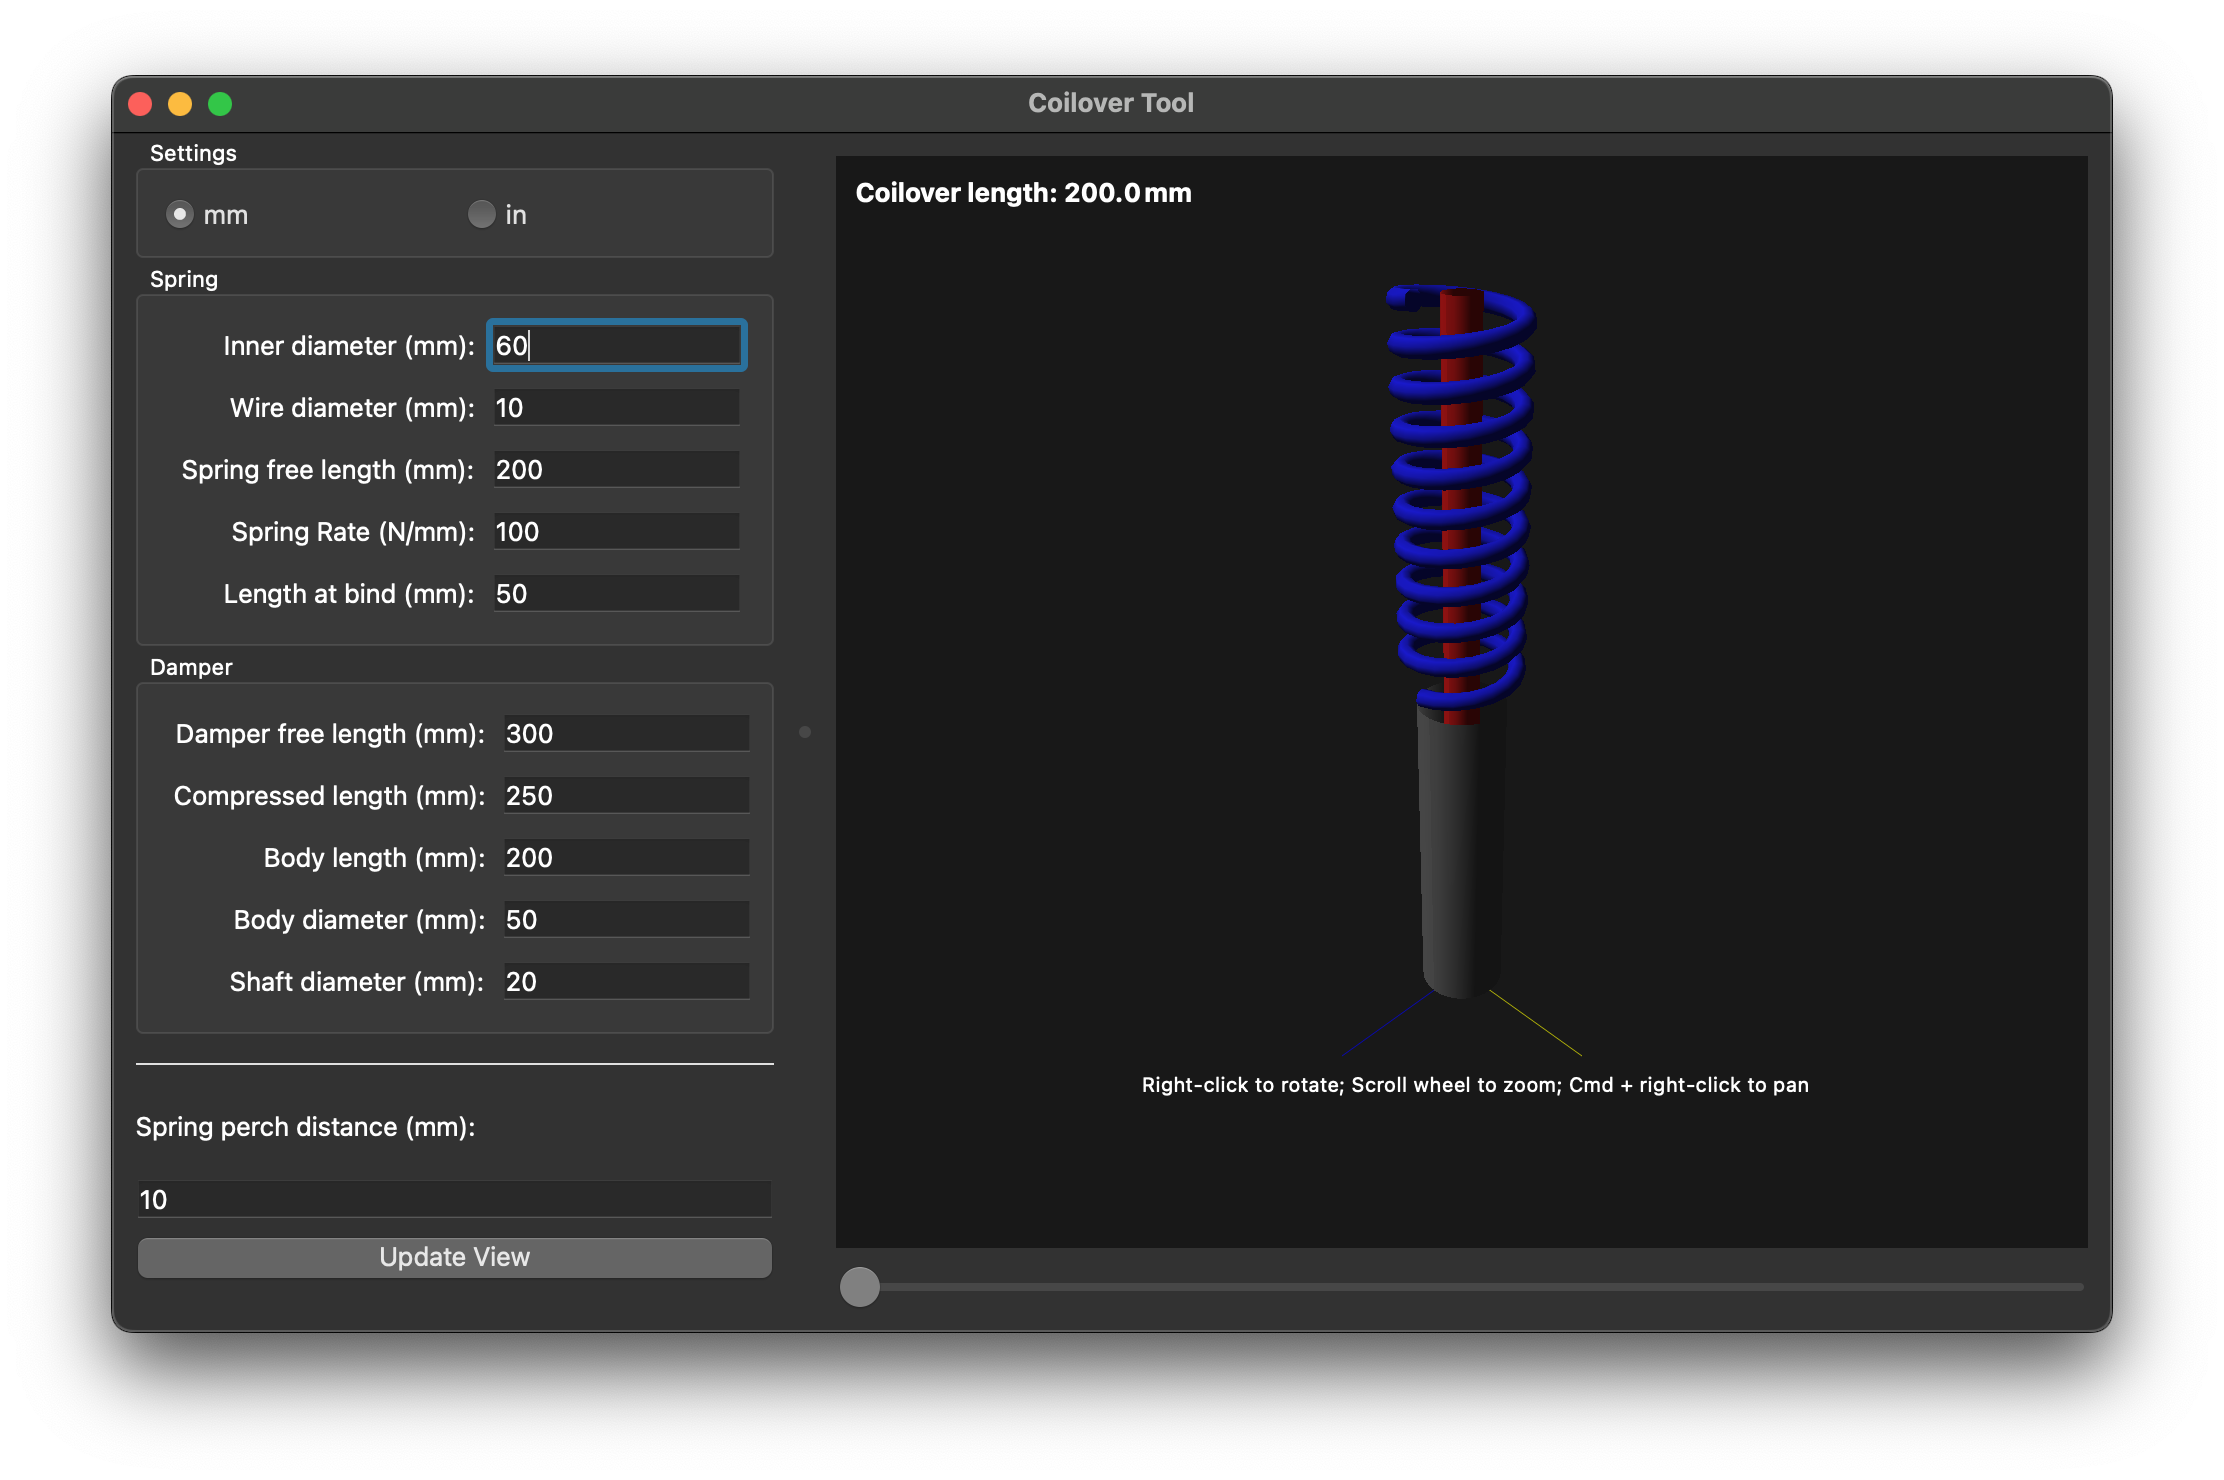
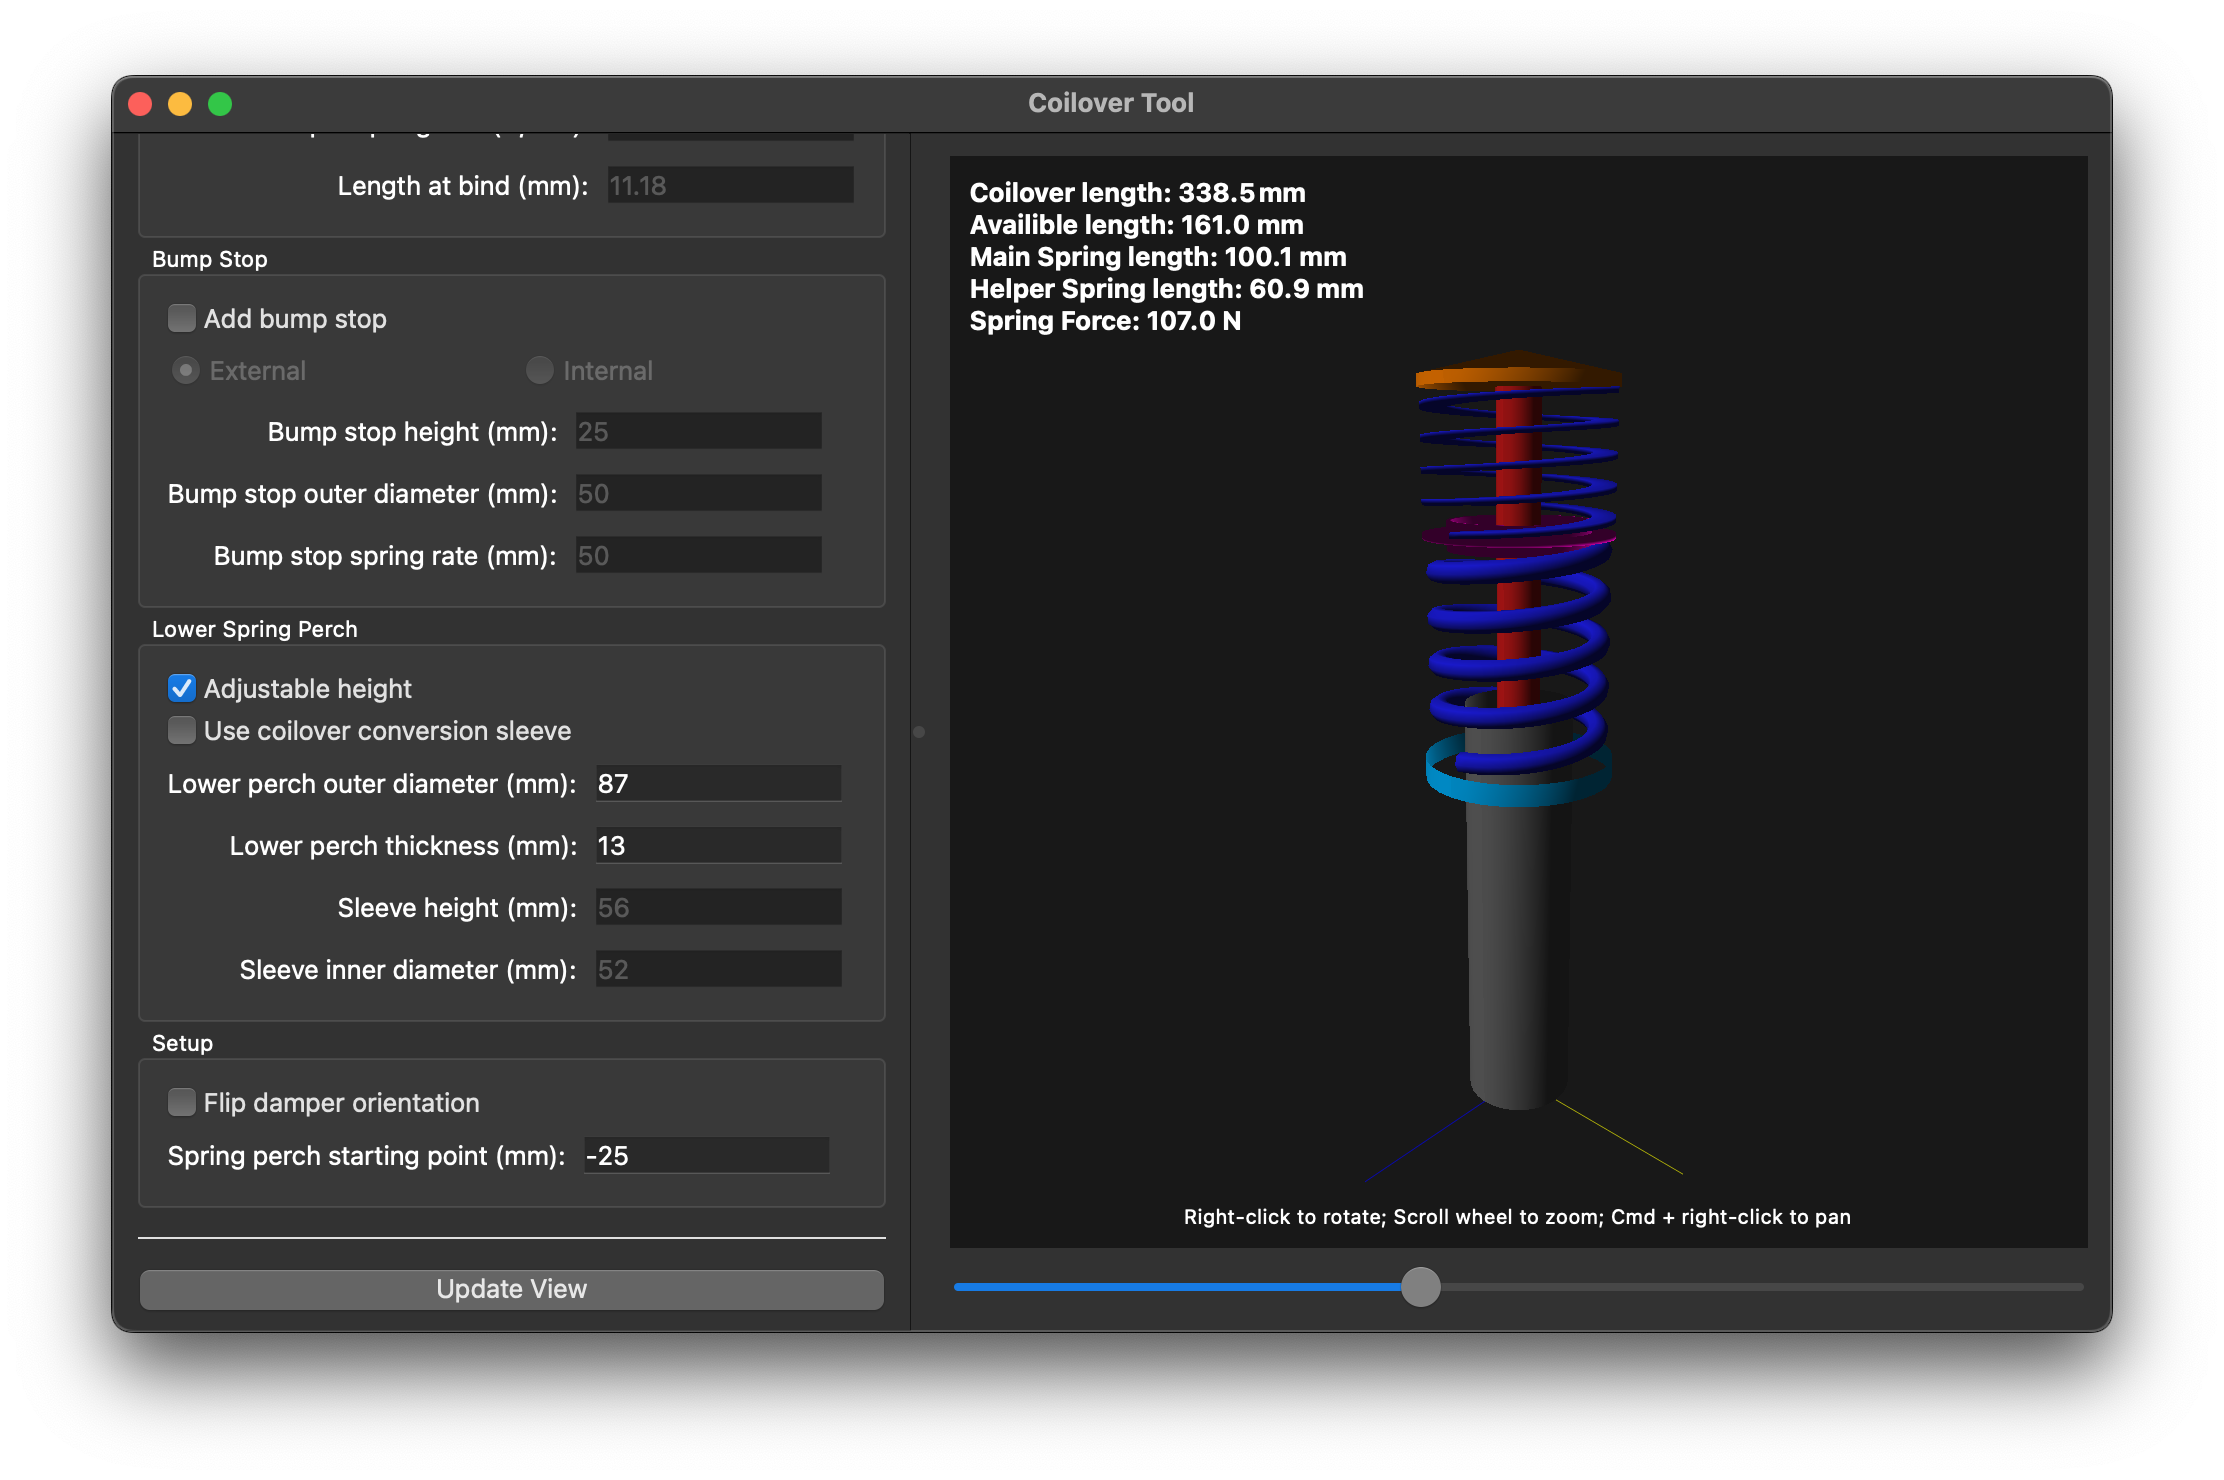
Adjustable lower perch functionality.

Changed region(s): [[0.0621, 0.0932, 0.8377, 0.9014], [0.0621, 0.0932, 0.3413, 0.6838], [0.1551, 0.1243, 0.2482, 0.1554]]

diff --git a/coilover.py b/coilover.py
@@ -50,6 +50,15 @@ class CoiloverDesigner(QtWidgets.QMainWindow):
         self.q_bump_diameter                = QtWidgets.QLineEdit("50")
         self.q_bump_rate                    = QtWidgets.QLineEdit("50")
 
+        self.q_lower_perch_outer_diameter   = QtWidgets.QLineEdit("87")
+        self.q_lower_perch_thickness        = QtWidgets.QLineEdit("13")
+        self.q_lower_perch_sleeve_height    = QtWidgets.QLineEdit("56")
+        self.q_lower_perch_sleeve_inner_diameter   = QtWidgets.QLineEdit("52")
+
+        self.q_upper_perch_outer_diameter   = QtWidgets.QLineEdit("85")
+        self.q_upper_perch_thickness        = QtWidgets.QLineEdit("10")
+        self.q_upper_perch_tapered_height   = QtWidgets.QLineEdit("10")
+
         self.q_lower_perch_position         = QtWidgets.QLineEdit("10")   # mm
         # 87 mm diameter perch
 
@@ -100,6 +109,26 @@ class CoiloverDesigner(QtWidgets.QMainWindow):
             self.q_bump_rate
             )
 
+        # Lower perch group
+        lower_perch_group, self.lower_perch_adjustable_chk, self.lower_perch_sleeve_chk = create_lower_perch_group(
+            self.on_lower_perch_adj_toggled,
+            self.lower_perch_sleeve_chk_toggled,
+            self.q_lower_perch_outer_diameter,
+            self.q_lower_perch_thickness,
+            self.q_lower_perch_sleeve_height,
+            self.q_lower_perch_sleeve_inner_diameter
+        )
+
+        self.on_lower_perch_adj_toggled(self.lower_perch_adjustable_chk.isChecked())
+        self.lower_perch_sleeve_chk_toggled(self.lower_perch_sleeve_chk.isChecked())
+
+        # Upper perch group
+        upper_perch_group = create_upper_perch_group(
+            self.q_upper_perch_outer_diameter,
+            self.q_upper_perch_thickness,
+            self.q_upper_perch_tapered_height
+        )
+
         # Setup group
         setup_group, self.flip_damper_chk = create_setup_group(self.q_lower_perch_position)
 
@@ -110,6 +139,7 @@ class CoiloverDesigner(QtWidgets.QMainWindow):
         left_layout.addWidget(damper_group)
         left_layout.addWidget(helper_group)
         left_layout.addWidget(bump_group)
+        left_layout.addWidget(lower_perch_group)
         left_layout.addWidget(setup_group)
 
         # Separator
@@ -296,6 +326,22 @@ class CoiloverDesigner(QtWidgets.QMainWindow):
         ):
             w.setEnabled(self.use_bump)
 
+    def on_lower_perch_adj_toggled(self, checked):
+        """
+        Enable lower perch position input when adjustable perch is selected.
+        """
+        self.q_lower_perch_position.setEnabled(bool(checked))
+
+    def lower_perch_sleeve_chk_toggled(self, checked):
+        """
+        Enable sleeve dimension inputs when using a conversion sleeve.
+        """
+        for w in (
+            self.q_lower_perch_sleeve_height,
+            self.q_lower_perch_sleeve_inner_diameter,
+        ):
+            w.setEnabled(bool(checked))
+
     def read_length(self, widget):
         """
         Ensures the 3D animation always reads the inputs in mm
@@ -428,7 +474,7 @@ class CoiloverDesigner(QtWidgets.QMainWindow):
         perch_clearance  = 2.0       # mm beyond spring OD
         cyl_thickness    = 5.0       # cylinder height
         cone_height      = 10.0      # cone height
-        plate_dia        = self.spring_id + perch_clearance
+        plate_dia        = 87
 
         cyl_mesh = make_cylinder(plate_dia/2.0, cyl_thickness, sectors=32)
         self.upper_perch = gl.GLMeshItem(
@@ -473,9 +519,9 @@ class CoiloverDesigner(QtWidgets.QMainWindow):
 
         # Lower spring perch
         perch_clearance  = 2.0       # mm beyond spring OD
-        cyl_thickness    = 5.0       # cylinder height
+        cyl_thickness    = 10.0       # cylinder height
         cone_height      = 10.0      # cone height
-        plate_dia        = self.spring_id + perch_clearance
+        plate_dia        = 87
 
         # remove old perch if exists
         if hasattr(self, 'lower_perch'):

diff --git a/ui_panels.py b/ui_panels.py
@@ -223,6 +223,70 @@ def create_bump_stop_group(
     bump_group.setLayout(bump_layout)
     return bump_group, bump_chk, radio_bump_ext, radio_bump_int
 
+def create_upper_perch_group(
+        q_upper_perch_outer_diameter,
+        q_upper_perch_thickness,
+        q_upper_perch_tapered_height
+        ):
+    upper_perch_group  = QtWidgets.QGroupBox("Upper Spring Perch")
+    upper_perch_layout = QtWidgets.QFormLayout()
+
+    # Upper perch dimensions
+    lbl = QtWidgets.QLabel("Upper perch outer diameter (mm):")
+    lbl.setObjectName("Upper perch outer diameter")
+    upper_perch_layout.addRow(lbl, q_upper_perch_outer_diameter)
+
+    lbl = QtWidgets.QLabel("Upper perch thickness (mm):")
+    lbl.setObjectName("Upper perch thickness")
+    upper_perch_layout.addRow(lbl, q_upper_perch_thickness)
+
+    lbl = QtWidgets.QLabel("Helper perch tapered height (mm):")
+    lbl.setObjectName("Helper perch tapered height")
+    upper_perch_layout.addRow(lbl, q_upper_perch_tapered_height)
+
+    upper_perch_group.setLayout(upper_perch_layout)
+    return upper_perch_group
+
+def create_lower_perch_group(
+        on_lower_perch_adj_toggled,
+        lower_perch_sleeve_chk_toggled,
+        q_lower_perch_outer_diameter,
+        q_lower_perch_thickness,
+        q_lower_perch_sleeve_height,
+        q_lower_perch_sleeve_inner_diameter
+        ):
+    lower_perch_group  = QtWidgets.QGroupBox("Lower Spring Perch")
+    lower_perch_layout = QtWidgets.QFormLayout()
+
+    lower_perch_adjustable_chk = QtWidgets.QCheckBox("Adjustable height")
+    lower_perch_layout.addRow(lower_perch_adjustable_chk)
+    lower_perch_adjustable_chk.toggled.connect(on_lower_perch_adj_toggled)
+
+    lower_perch_sleeve_chk = QtWidgets.QCheckBox("Use coilover conversion sleeve")
+    lower_perch_layout.addRow(lower_perch_sleeve_chk)
+    lower_perch_sleeve_chk.toggled.connect(lower_perch_sleeve_chk_toggled)
+
+    # Lower perch dimensions
+    lbl = QtWidgets.QLabel("Lower perch outer diameter (mm):")
+    lbl.setObjectName("Lower perch outer diameter")
+    lower_perch_layout.addRow(lbl, q_lower_perch_outer_diameter)
+
+    lbl = QtWidgets.QLabel("Lower perch thickness (mm):")
+    lbl.setObjectName("Lower perch thickness")
+    lower_perch_layout.addRow(lbl, q_lower_perch_thickness)
+
+    # Coilover conversion sleeve dimensions
+    lbl = QtWidgets.QLabel("Sleeve height (mm):")
+    lbl.setObjectName("Sleeve height")
+    lower_perch_layout.addRow(lbl, q_lower_perch_sleeve_height)
+
+    lbl = QtWidgets.QLabel("Sleeve inner diameter (mm):")
+    lbl.setObjectName("Sleeve inner diameter")
+    lower_perch_layout.addRow(lbl, q_lower_perch_sleeve_inner_diameter)
+
+    lower_perch_group.setLayout(lower_perch_layout)
+    return lower_perch_group, lower_perch_adjustable_chk, lower_perch_sleeve_chk
+
 def create_setup_group(
         q_lower_perch_position
         ):

diff --git a/README.md b/README.md
@@ -10,9 +10,8 @@ Python tool for helping you set up coil-over suspension systems.
 
 ## To Do
 - Add bump stop geometry
-- Add helper spring geometry
-- Add lower perch geometry
-- Add upper perch geometry
+- better perch and damper body geometry
+- inputs for perch geometry
 - Calculate and identify max travel condition: coil bind, bump stop engage, perch collison
 - Calculate static ride position given corner weight, along with bump and droop travel ranges
 - Option for flat spring ends
@@ -27,6 +26,8 @@ Python tool for helping you set up coil-over suspension systems.
 - Calculate warnings for helper springs (fully compressed at full droop, loose main spring at some point through travel range)
 - Lower sleeve geometry for independent ride height and preload
 - option for bump spring instead of bump stop
+- Graphs for spring rate vs damper travel
+- Calculate ideal damping curves and requried adjustment for different spring options
 
 ## Install
 Clone the repository: `git clone https://github.com/bglen/coilover-tool`
